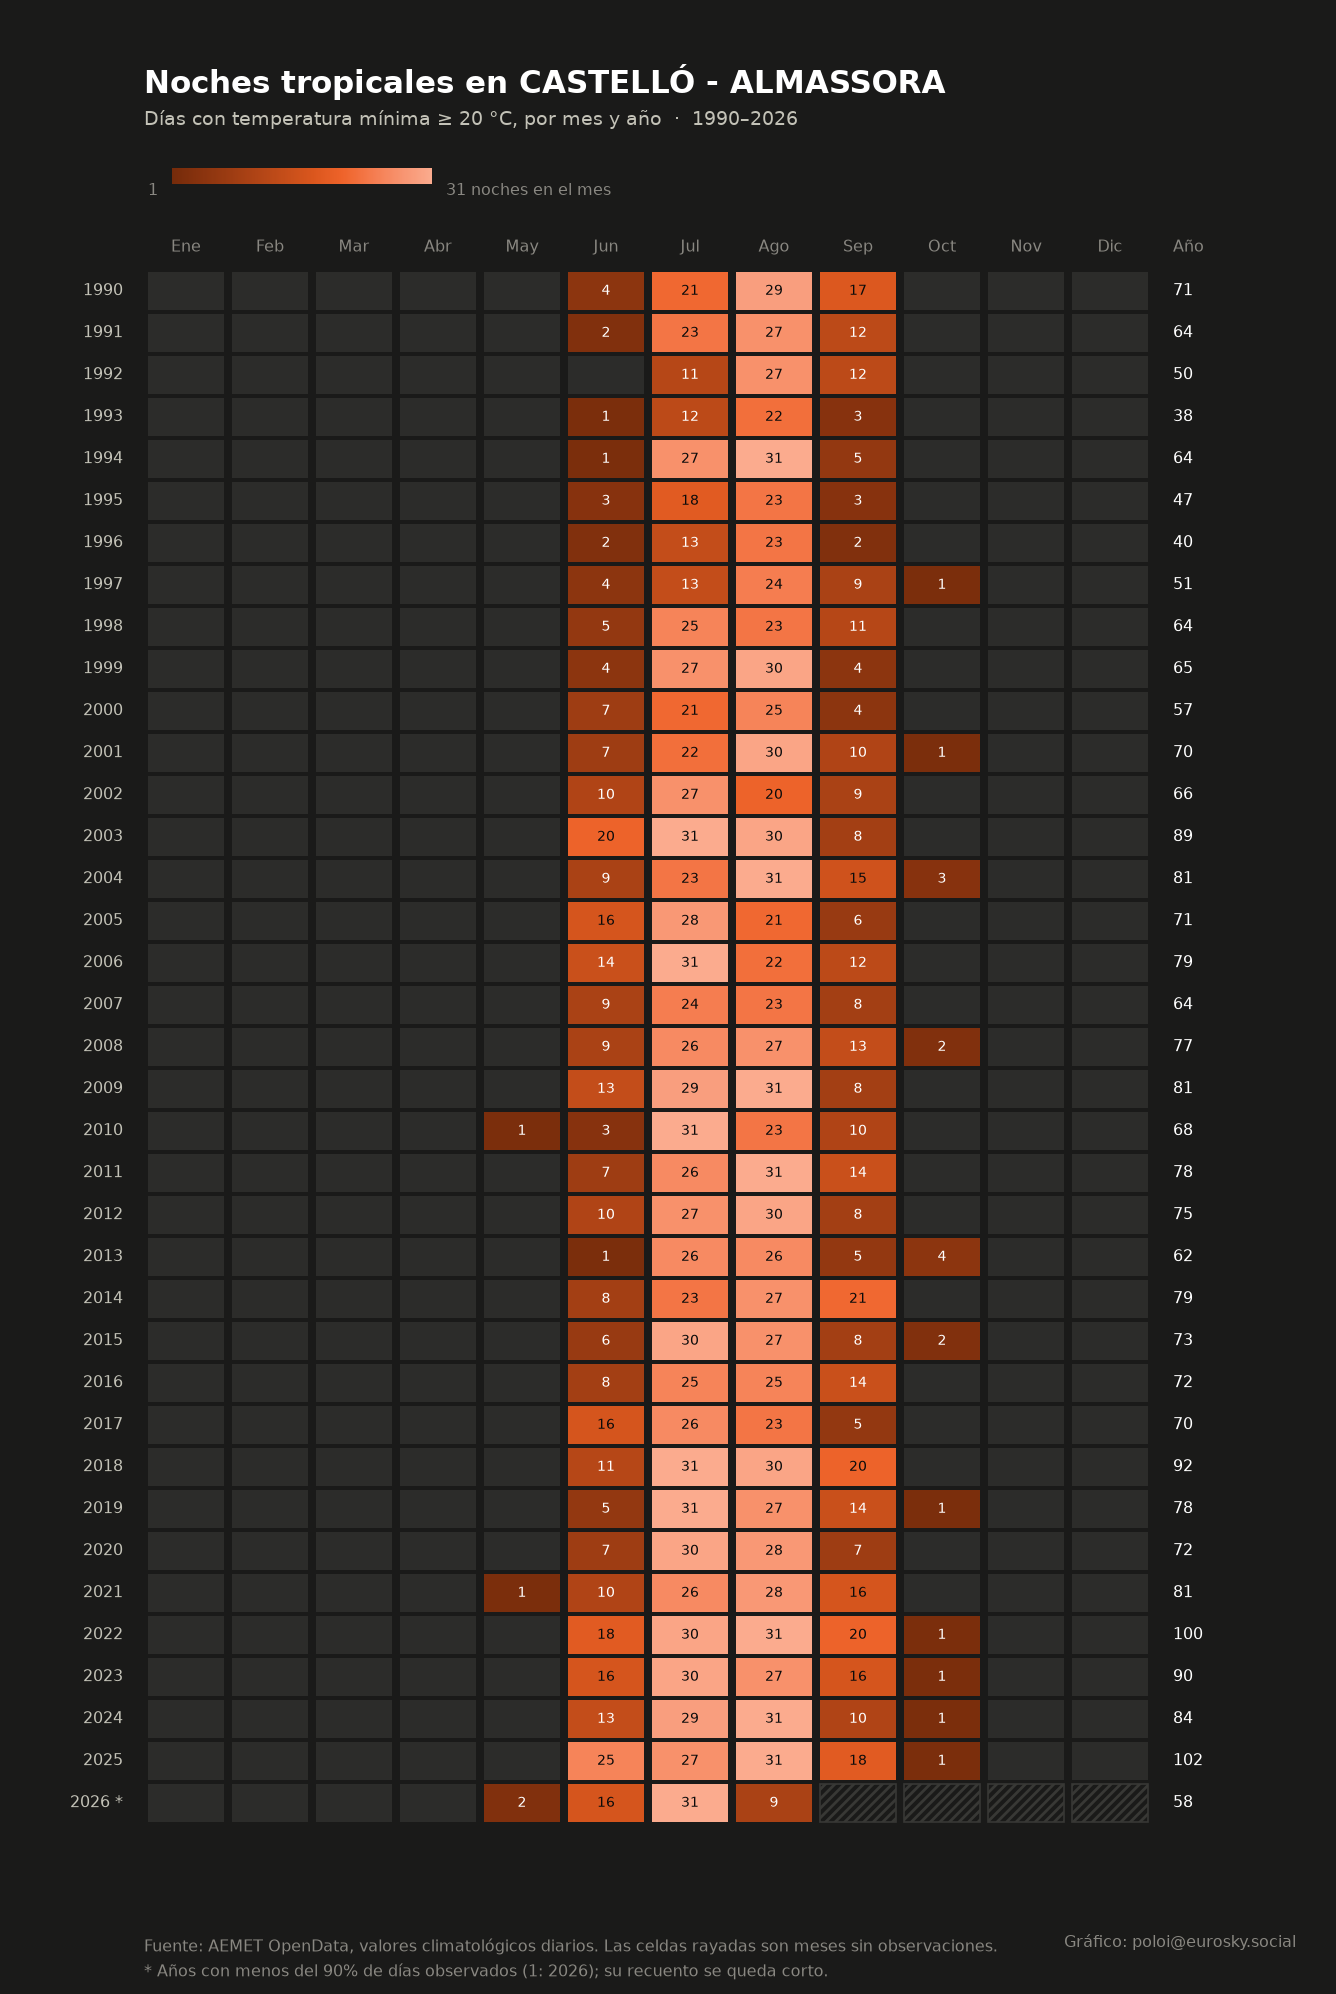
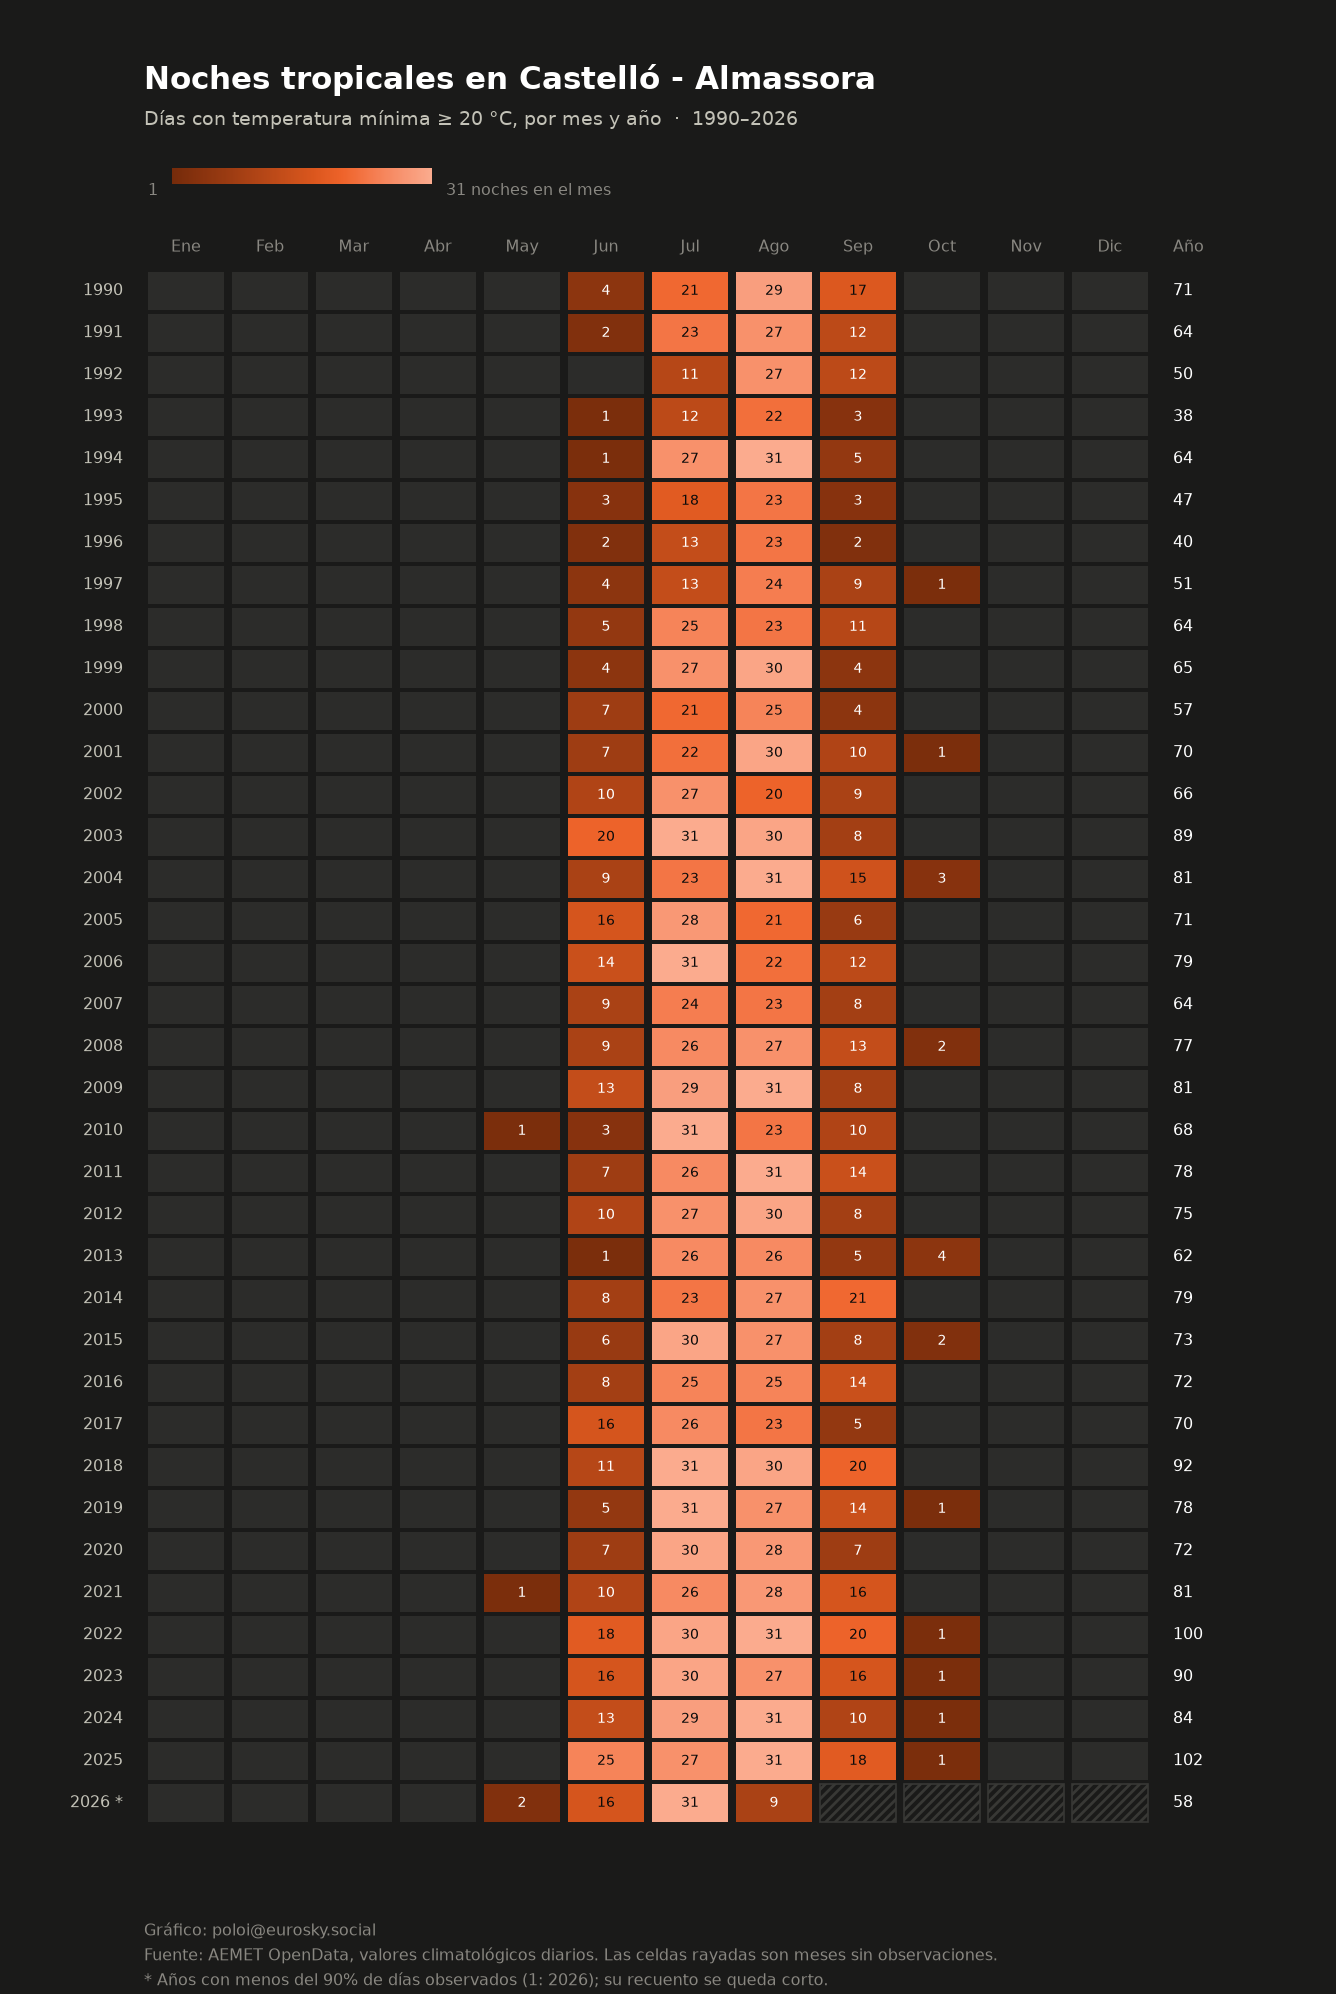
Firma encima de la fuente y nombre de estación sin gritar
La firma pasa a ser la primera línea del bloque del pie, alineada a la
izquierda con las notas, en vez de ir suelta a la derecha. El ancla del
bloque sube según el número de líneas para que no se salga por abajo.

Los nombres de AEMET vienen en mayúsculas: `formatear_nombre` los pasa a
capital inicial por ciudad dejando los conectores en minúscula ("Castelló
de la Plana-Almassora"), con excepción para grafías oficiales como
Vila-real. Se aplica solo al nombre que viene de AEMET; `--nombre` sigue
respetándose tal cual se escriba.

Regenerados los cuatro mapas publicados.

Claude-Session: https://claude.ai/code/session_01H6V42bKt8wRH5r8rzeMtHB

Changed region(s): [[0.0921, 0.9639, 0.7365, 0.995], [0.1228, 0.0311, 0.7058, 0.0622]]

diff --git a/aemet_noches/datos.py b/aemet_noches/datos.py
@@ -4,10 +4,48 @@ from __future__ import annotations
 
 import json
 import logging
+import re
 from datetime import date
 from pathlib import Path
 
 LOG = logging.getLogger(__name__)
+
+# AEMET devuelve los nombres en mayúsculas ("CASTELLÓ - ALMASSORA").
+CONECTORES = {
+    "a", "al", "da", "das", "de", "del", "do", "dos", "e", "el", "en",
+    "i", "la", "las", "les", "lo", "los", "o", "y",
+}
+# Topónimos cuya grafía oficial no sigue la regla general.
+EXCEPCIONES = {"vila-real": "Vila-real"}
+
+
+def _capitalizar(palabra: str) -> str:
+    """Primera letra en mayúscula, también tras guion, barra, punto o apóstrofo."""
+    return re.sub(
+        r"(^|[-/'’.])(\w)",
+        lambda m: m.group(1) + m.group(2).upper(),
+        palabra.lower(),
+    )
+
+
+def formatear_nombre(bruto: str) -> str:
+    """'CASTELLÓ - ALMASSORA' → 'Castelló - Almassora'.
+
+    Los conectores van en minúscula salvo que abran el nombre, así que
+    'CASTELLÓ DE LA PLANA' sale como 'Castelló de la Plana'. Para nombres
+    raros siempre queda la opción de pasar `--nombre` a mano.
+    """
+    palabras = bruto.split()
+    salida = []
+    for i, palabra in enumerate(palabras):
+        clave = palabra.lower()
+        if clave in EXCEPCIONES:
+            salida.append(EXCEPCIONES[clave])
+        elif i > 0 and clave in CONECTORES:
+            salida.append(clave)
+        else:
+            salida.append(_capitalizar(palabra))
+    return " ".join(salida)
 
 
 def _num(valor) -> float | None:
@@ -53,11 +91,11 @@ def cargar_dias(carpeta: Path, estacion: str | None = None) -> dict[date, float]
 
 
 def nombre_estacion(carpeta: Path, estacion: str | None = None) -> str:
-    """Nombre legible de la estación, tal y como lo devuelve AEMET."""
+    """Nombre de la estación según AEMET, con las mayúsculas ya arregladas."""
     patron = f"{estacion}_*.json" if estacion else "*.json"
     for fichero in sorted(carpeta.glob(patron)):
         registros = json.loads(fichero.read_text(encoding="utf-8"))
         for reg in registros:
             if reg.get("nombre"):
-                return str(reg["nombre"]).strip()
+                return formatear_nombre(str(reg["nombre"]).strip())
     return estacion or "estación desconocida"

diff --git a/aemet_noches/grafico.py b/aemet_noches/grafico.py
@@ -226,6 +226,8 @@ def dibujar(
         "Fuente: AEMET OpenData, valores climatológicos diarios. "
         "Las celdas rayadas son meses sin observaciones.",
     ]
+    if credito:
+        notas.insert(0, credito)
     if incompletos:
         rango = f"{min(incompletos)}–{max(incompletos)}" if len(incompletos) > 3 else \
             ", ".join(str(a) for a in incompletos)
@@ -233,16 +235,11 @@ def dibujar(
             f"* Años con menos del {cobertura_minima:.0%} de días observados "
             f"({len(incompletos)}: {rango}); su recuento se queda corto."
         )
+    # El bloque crece hacia abajo, así que se sube el ancla según cuántas líneas haya.
     fig.text(
-        izq / ancho, 0.30 / alto, "\n".join(notas),
+        izq / ancho, (0.14 + 0.08 * len(notas)) / alto, "\n".join(notas),
         fontsize=5.6, color=t["apagado"], va="top", ha="left", linespacing=1.6,
     )
-    if credito:
-        # Firma abajo a la derecha, alineada con el borde de la columna "Año".
-        fig.text(
-            (ancho - 0.2) / ancho, 0.30 / alto, credito,
-            fontsize=5.6, color=t["apagado"], va="top", ha="right",
-        )
 
     destino.parent.mkdir(parents=True, exist_ok=True)
     fig.savefig(destino, facecolor=t["fondo"])

diff --git a/tests/test_metricas.py b/tests/test_metricas.py
@@ -54,3 +54,13 @@ def test_csv_ida_y_vuelta(tmp_path):
     leidos = metricas.leer_csv(destino)
     assert leidos[0].por_mes == resumenes[0].por_mes
     assert leidos[0].dias_con_dato_mes == resumenes[0].dias_con_dato_mes
+
+
+def test_formatear_nombre_de_estacion():
+    from aemet_noches.datos import formatear_nombre as f
+
+    assert f("CASTELLÓ - ALMASSORA") == "Castelló - Almassora"
+    assert f("CASTELLÓ DE LA PLANA-ALMASSORA") == "Castelló de la Plana-Almassora"
+    assert f("L'ALCORA") == "L'Alcora"
+    assert f("VILA-REAL") == "Vila-real"          # grafía oficial, con minúscula
+    assert f("EMBALSE DE MARIA CRISTINA") == "Embalse de Maria Cristina"
